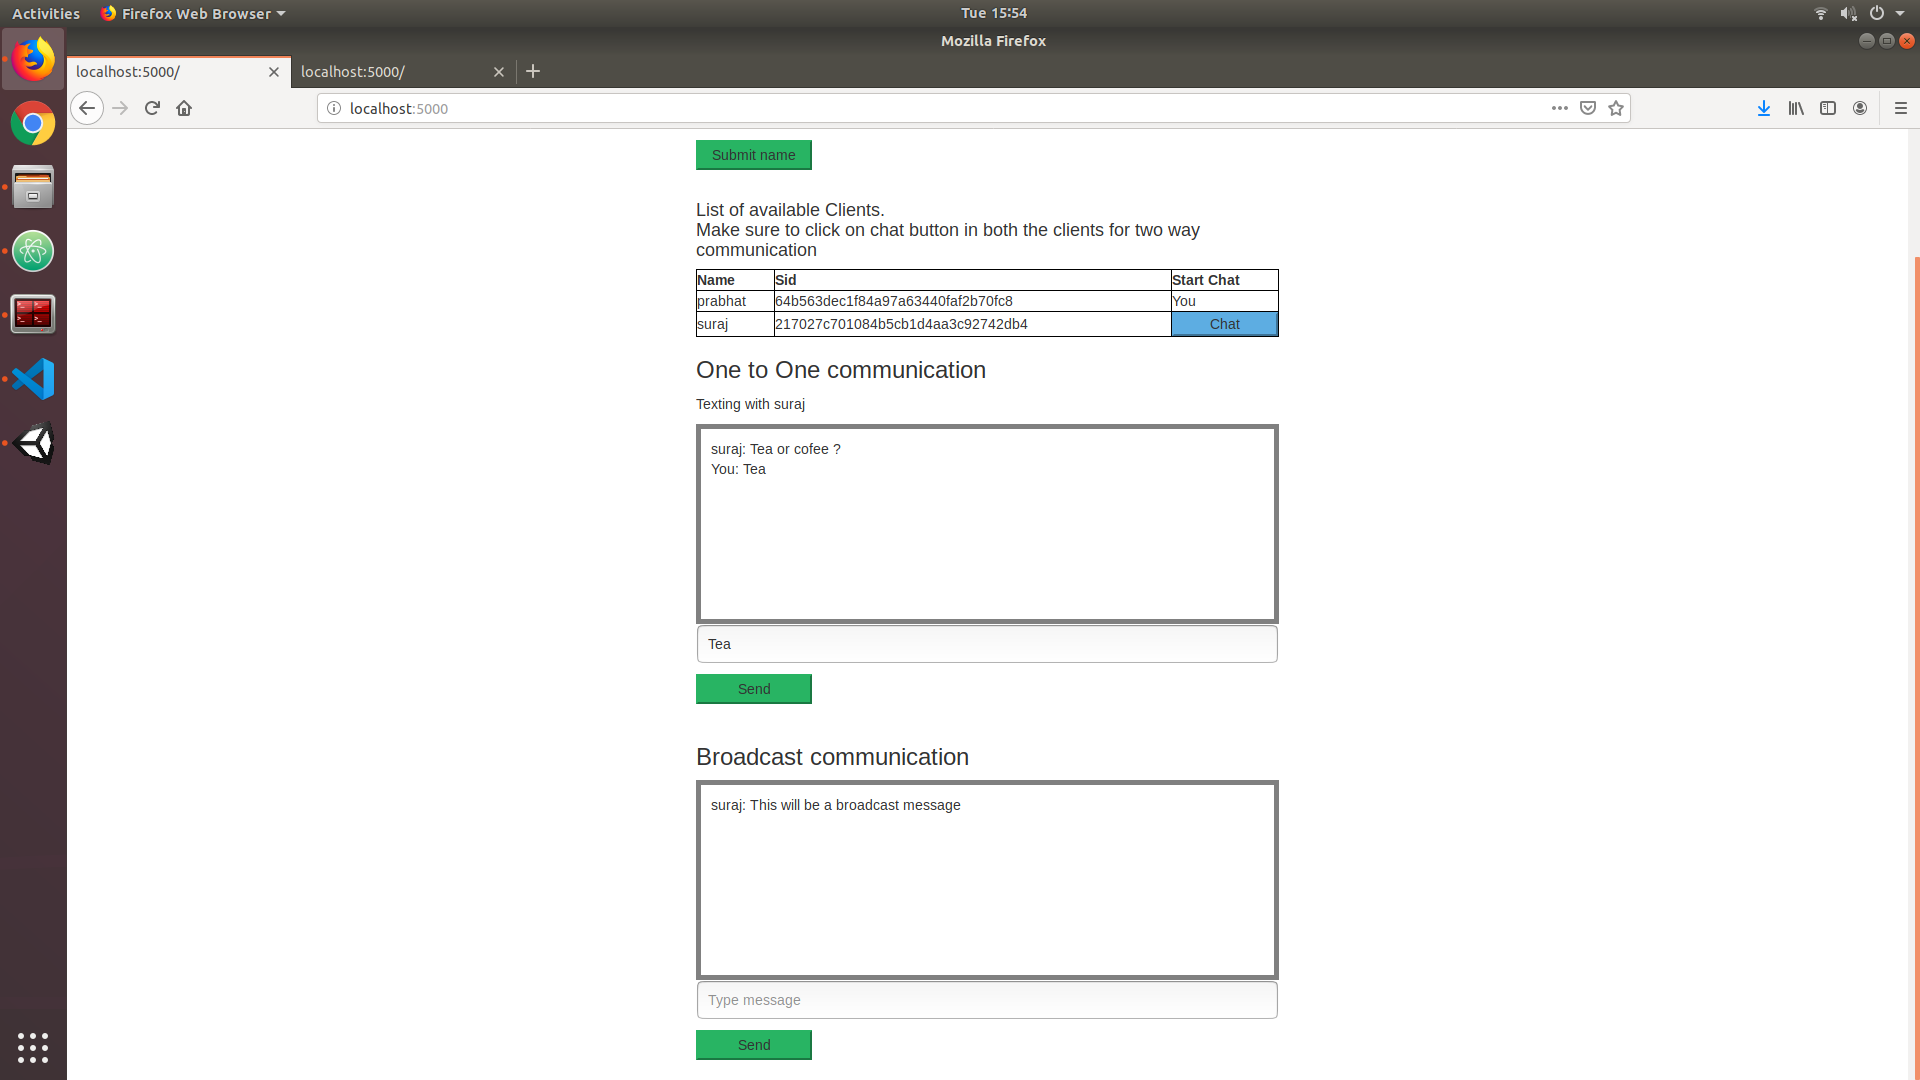
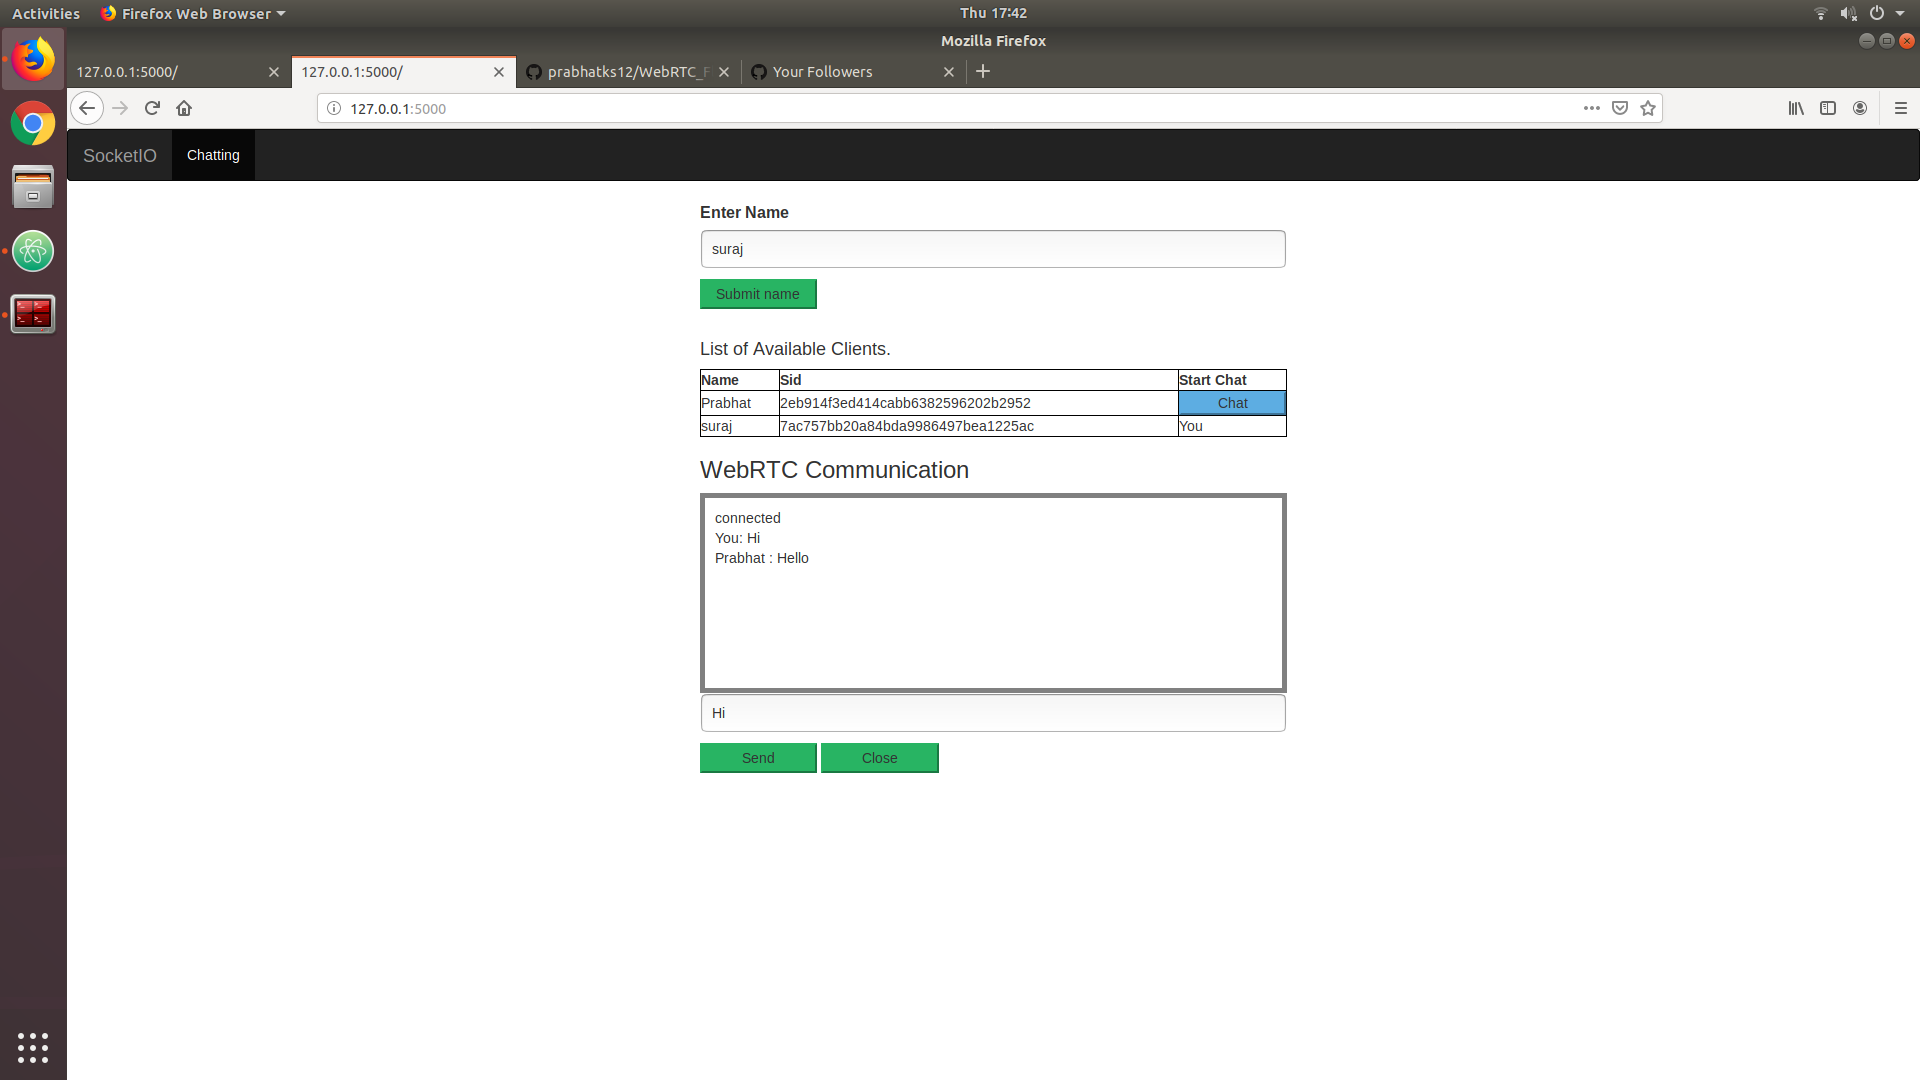
Changing readme and screenshots

diff --git a/templates/message.html b/templates/message.html
@@ -17,7 +17,6 @@
   <div id="socketio" style="display:none">
   <br>
 
-
   <!--  2. Showing list of clients -->
 
   <h4>List of Available Clients.</h4>

diff --git a/README.md b/README.md
@@ -1,11 +1,8 @@
-# SocketIO in `Flask` and `Javascript`
+# WebRTC in `Flask` and `Javascript`
 
-Creating a chat app which provides both `personal` and `group chat` option using Flask SocketIO and also dislplaying the
-details of available clients inside a table.
+Creating a chat application which uses WebRTC connection for peer to peer communication. Flask SocketIO in only needed in initial stage for identifying the
+clients, after that the peers or clients will communicate themself.
 
-Sid in flask can be used inside emit method to identify any client. Thus when parameter room=request.sid is passed inside the emit function, the message is only sent to the particular client.
-
-*Note*: Client can only send data to Server and not to anyother client.
 
 ## Developers Guideline
 Type the following command based on your system to create the virtual enviornment in python.
@@ -38,9 +35,6 @@ python app.py
 flask run
 ```
 
-*Note*: Please click Chat button in the `List of available clients` for both the clients for two way communication for One to
-One or private chat. The text at the bottom of the table will change. 
-
 ## Results
 Displaying the messages for `first` client
 
@@ -49,5 +43,3 @@ Displaying the messages for `first` client
 Displaying the messages for `second` client
 
 ![Alt text](screenshots/working2.png "ScreenShot")
-
-
